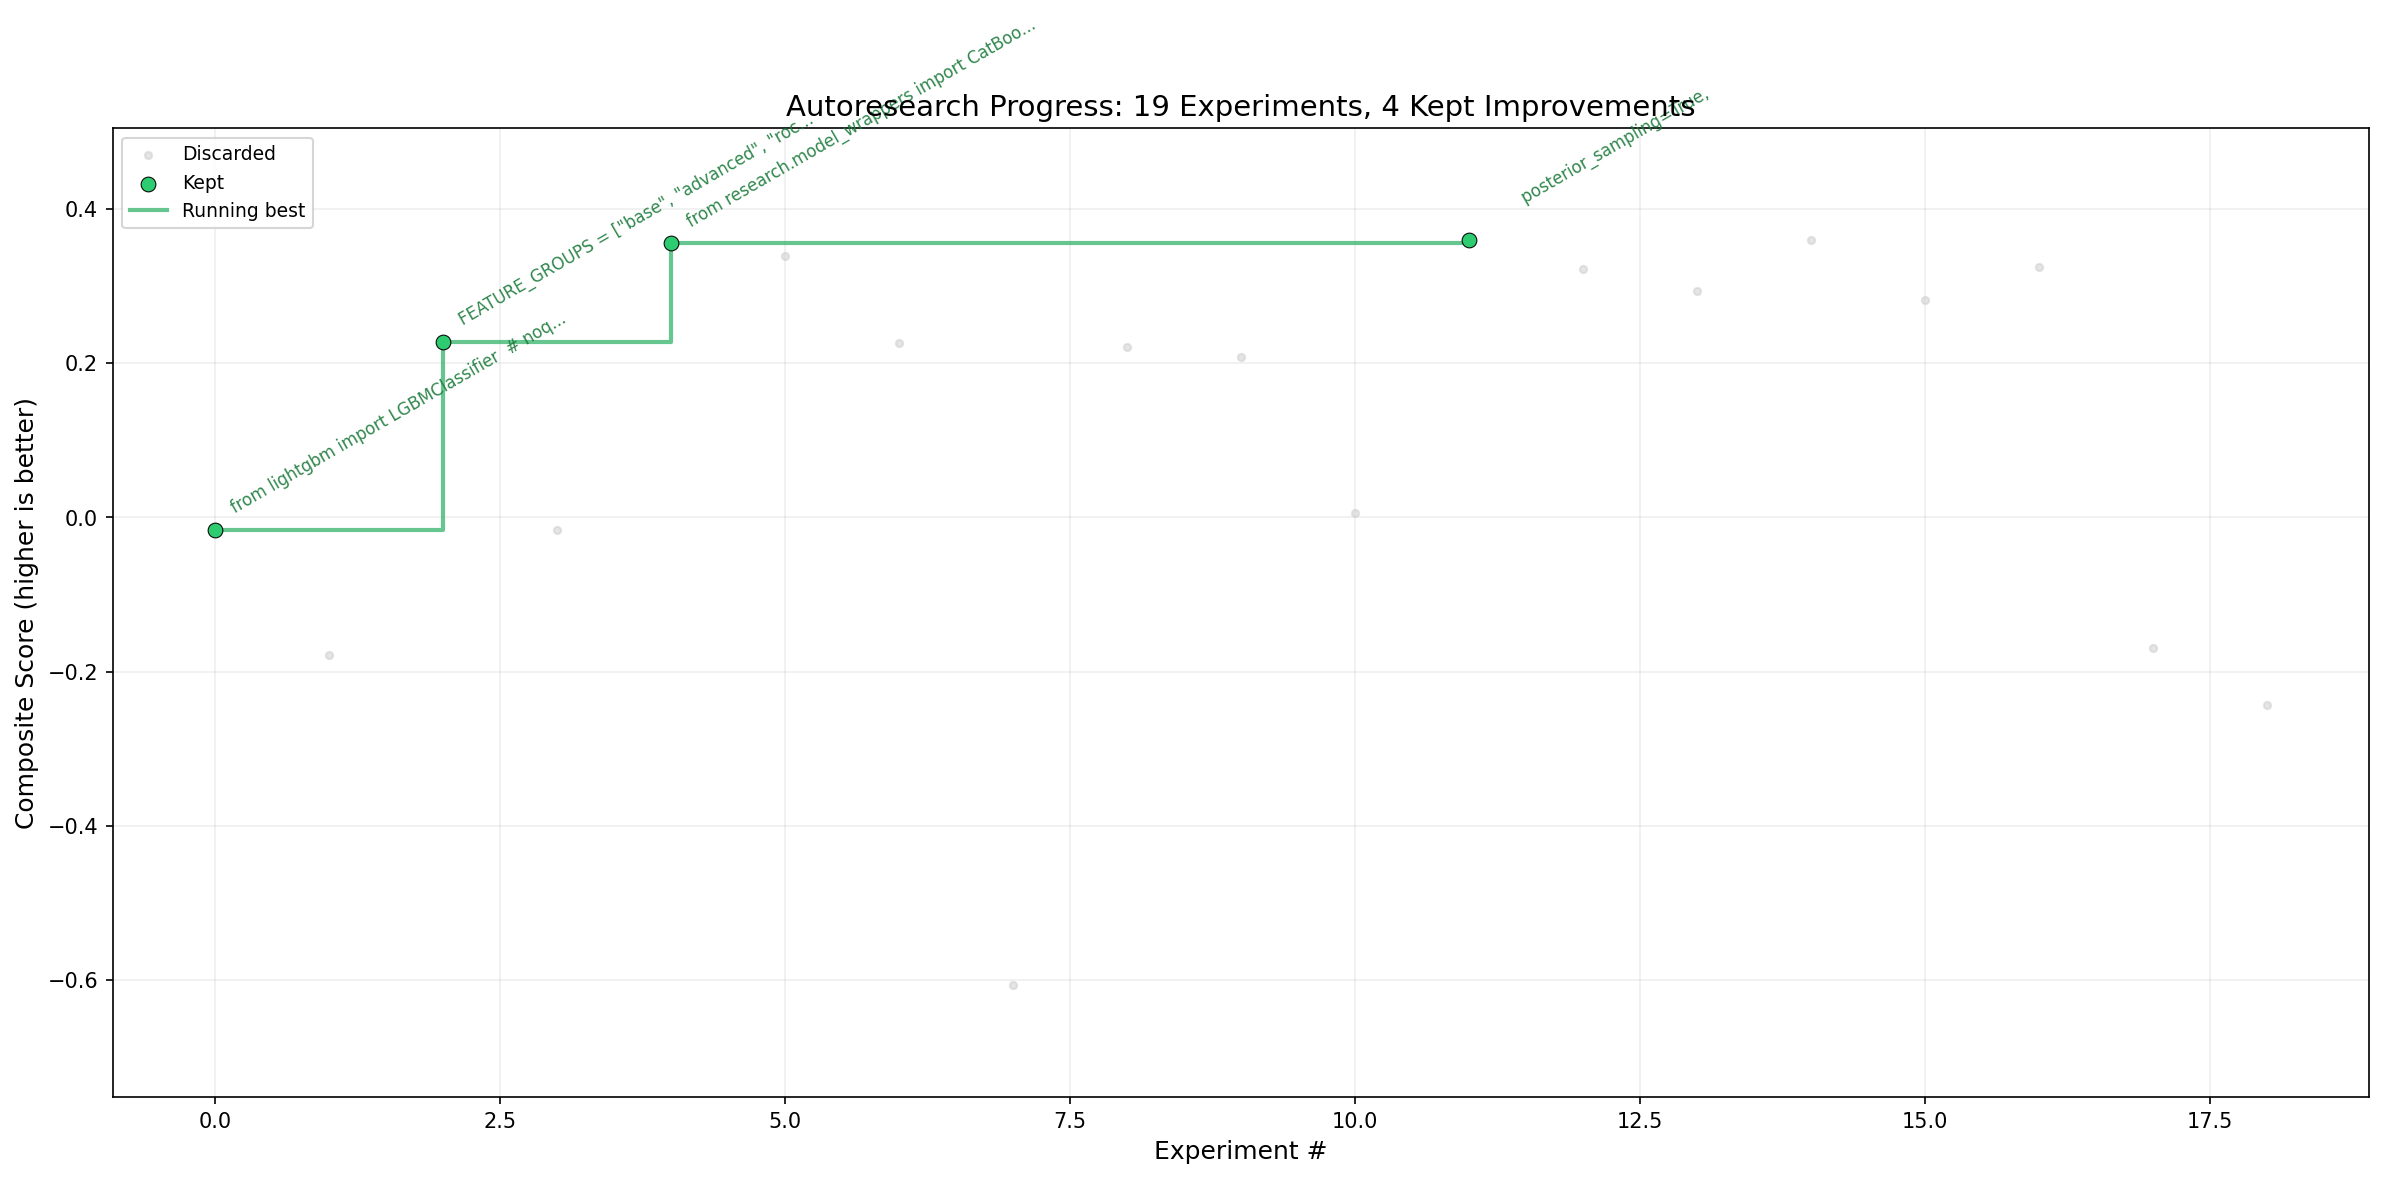
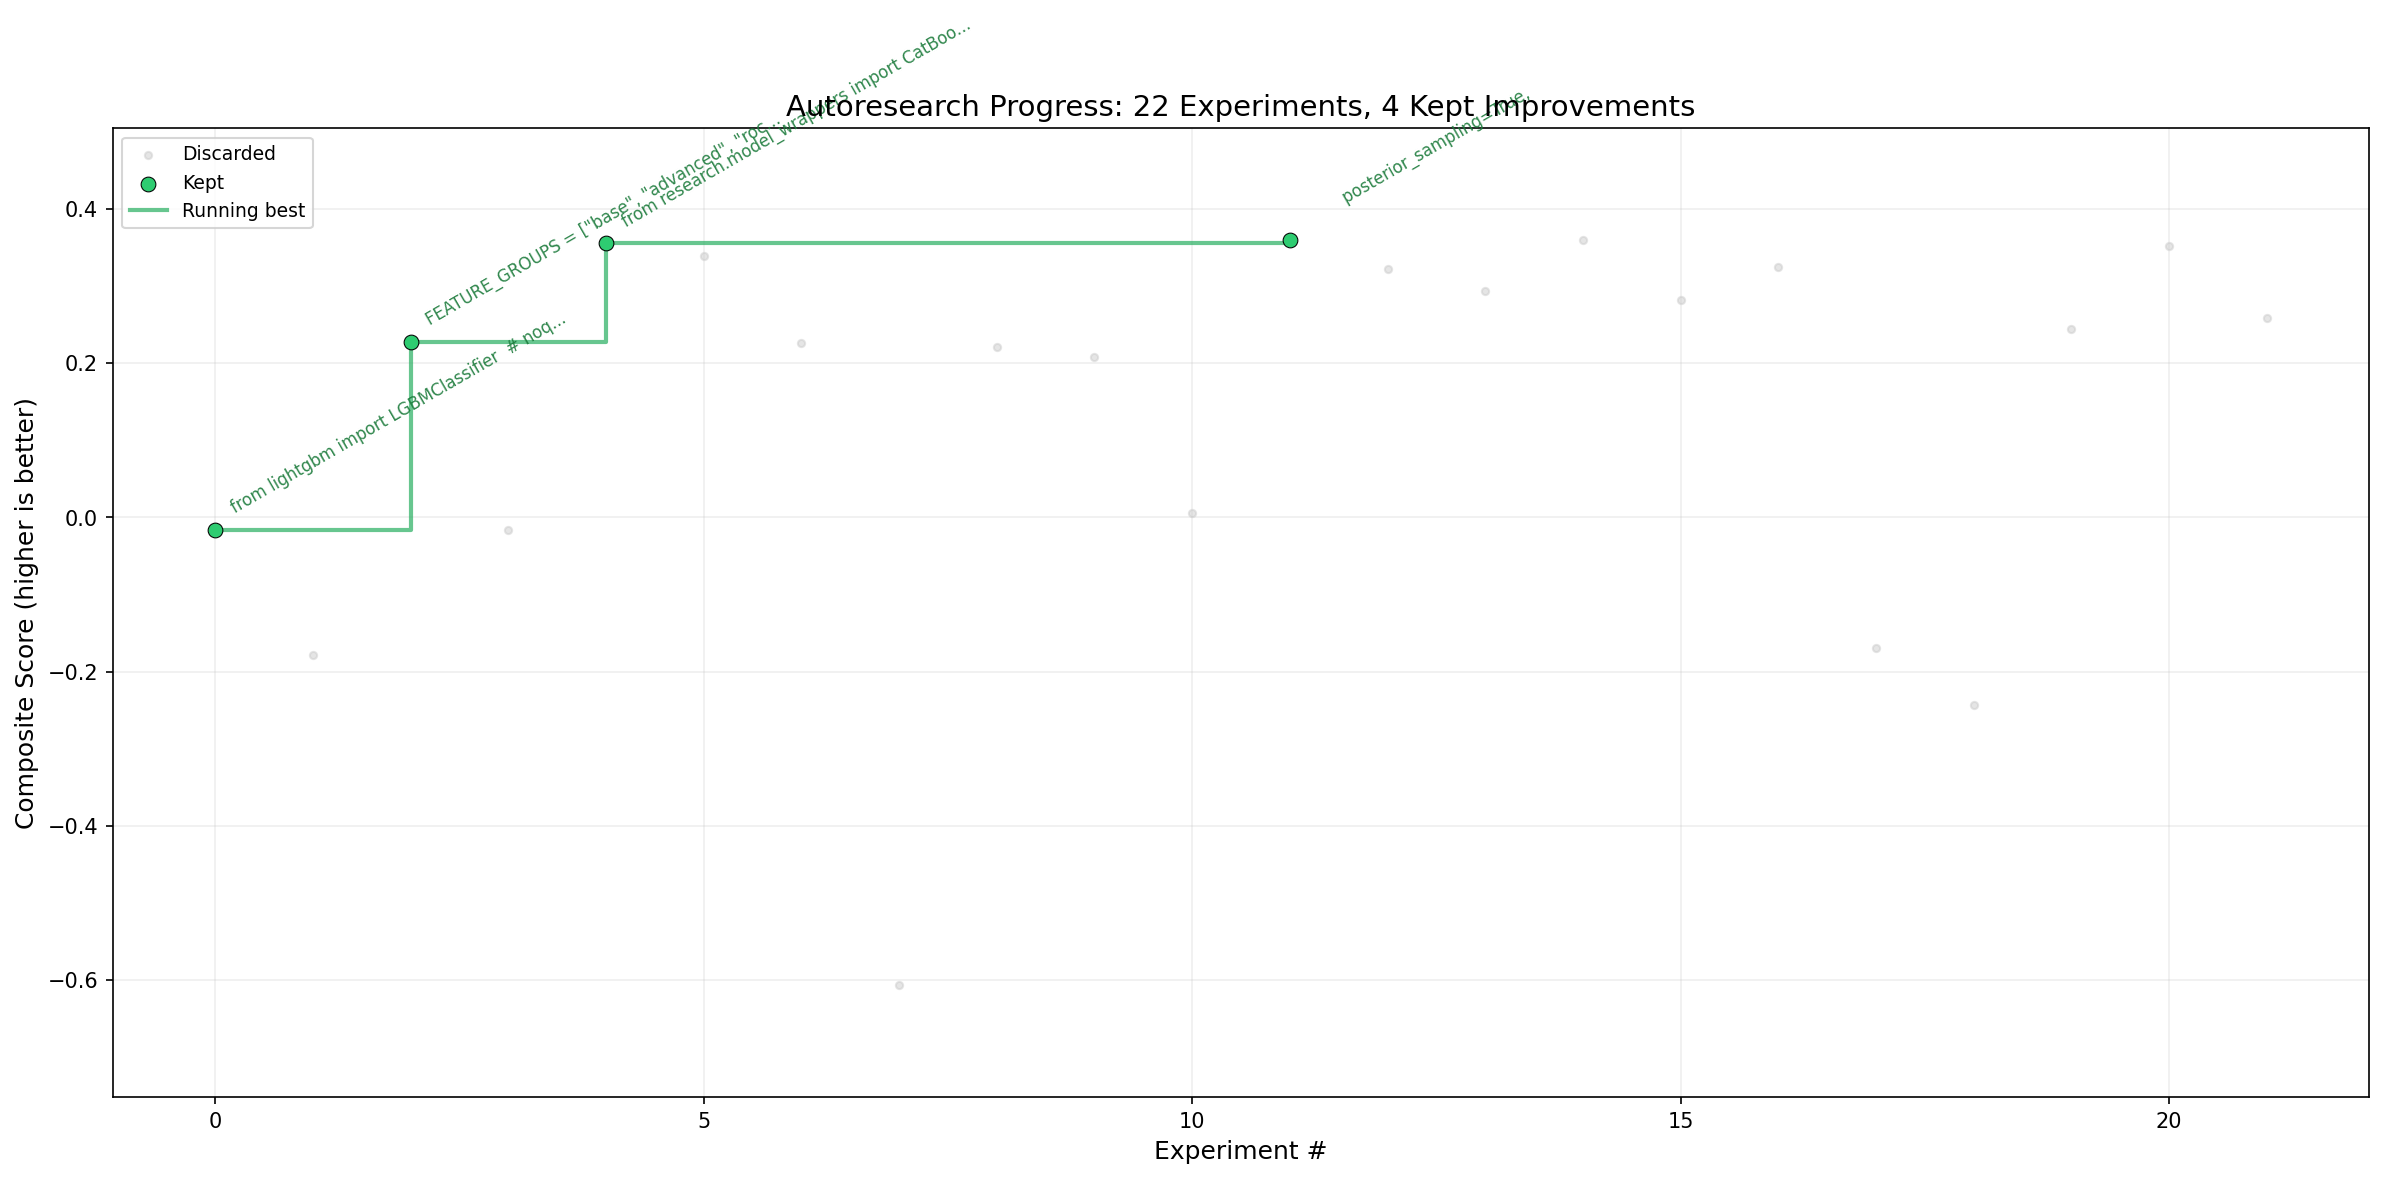
research: revert multiple iterations in experiment.py, adjusting bootstrap_type, depth, and iterations to evaluate model performance changes

diff --git a/research/COMBAT_LOG.md b/research/COMBAT_LOG.md
@@ -531,3 +531,62 @@ index a007f5a..806bb7f 100644
 +        batch_size=4096,
      )
 ```
+
+### Iteration 1 -- REVERTED (-0.1153)
+Score: 0.2445 vs best 0.3598
+Change:         bootstrap_type="Bayesian",         bagging_temperature=1.0, 
+```diff
+diff --git a/research/experiment.py b/research/experiment.py
+index a007f5a..2230690 100644
+--- a/research/experiment.py
++++ b/research/experiment.py
+@@ -52,8 +52,8 @@ def build_model(y_train):
+         depth=6,
+         learning_rate=0.01,
+         min_data_in_leaf=50,
+-        bootstrap_type="MVS",
+-        subsample=0.7,
++        bootstrap_type="Bayesian",
++        bagging_temperature=1.0,
+         rsm=0.6,
+         l2_leaf_reg=3.0,
+         posterior_sampling=True,
+```
+
+### Iteration 2 -- REVERTED (-0.0079)
+Score: 0.3519 vs best 0.3598
+Change:         depth=7, 
+```diff
+diff --git a/research/experiment.py b/research/experiment.py
+index a007f5a..0281ffe 100644
+--- a/research/experiment.py
++++ b/research/experiment.py
+@@ -49,7 +49,7 @@ def build_model(y_train):
+ 
+     model = CatBoostWrapper(
+         iterations=2000,
+-        depth=6,
++        depth=7,
+         learning_rate=0.01,
+         min_data_in_leaf=50,
+         bootstrap_type="MVS",
+```
+
+### Iteration 3 -- REVERTED (-0.1009)
+Score: 0.2589 vs best 0.3598
+Change:         iterations=3000, 
+```diff
+diff --git a/research/experiment.py b/research/experiment.py
+index a007f5a..fd229ef 100644
+--- a/research/experiment.py
++++ b/research/experiment.py
+@@ -48,7 +48,7 @@ def build_model(y_train):
+     spw = np.sqrt(neg / pos)
+ 
+     model = CatBoostWrapper(
+-        iterations=2000,
++        iterations=3000,
+         depth=6,
+         learning_rate=0.01,
+         min_data_in_leaf=50,
+```

diff --git a/research/RESEARCH_LOG.md b/research/RESEARCH_LOG.md
@@ -65,3 +65,12 @@ Score: -0.2430 | class _LazyFocal:     """Defers TorchMLP construction to fit() 
 
 ### Iteration 1 -- KNOWLEDGE
 No code changes.
+
+### Iteration 1 -- REVERTED (-0.1153)
+Score: 0.2445 |         bootstrap_type="Bayesian",         bagging_temperature=1.0, 
+
+### Iteration 2 -- REVERTED (-0.0079)
+Score: 0.3519 |         depth=7, 
+
+### Iteration 3 -- REVERTED (-0.1009)
+Score: 0.2589 |         iterations=3000, 
